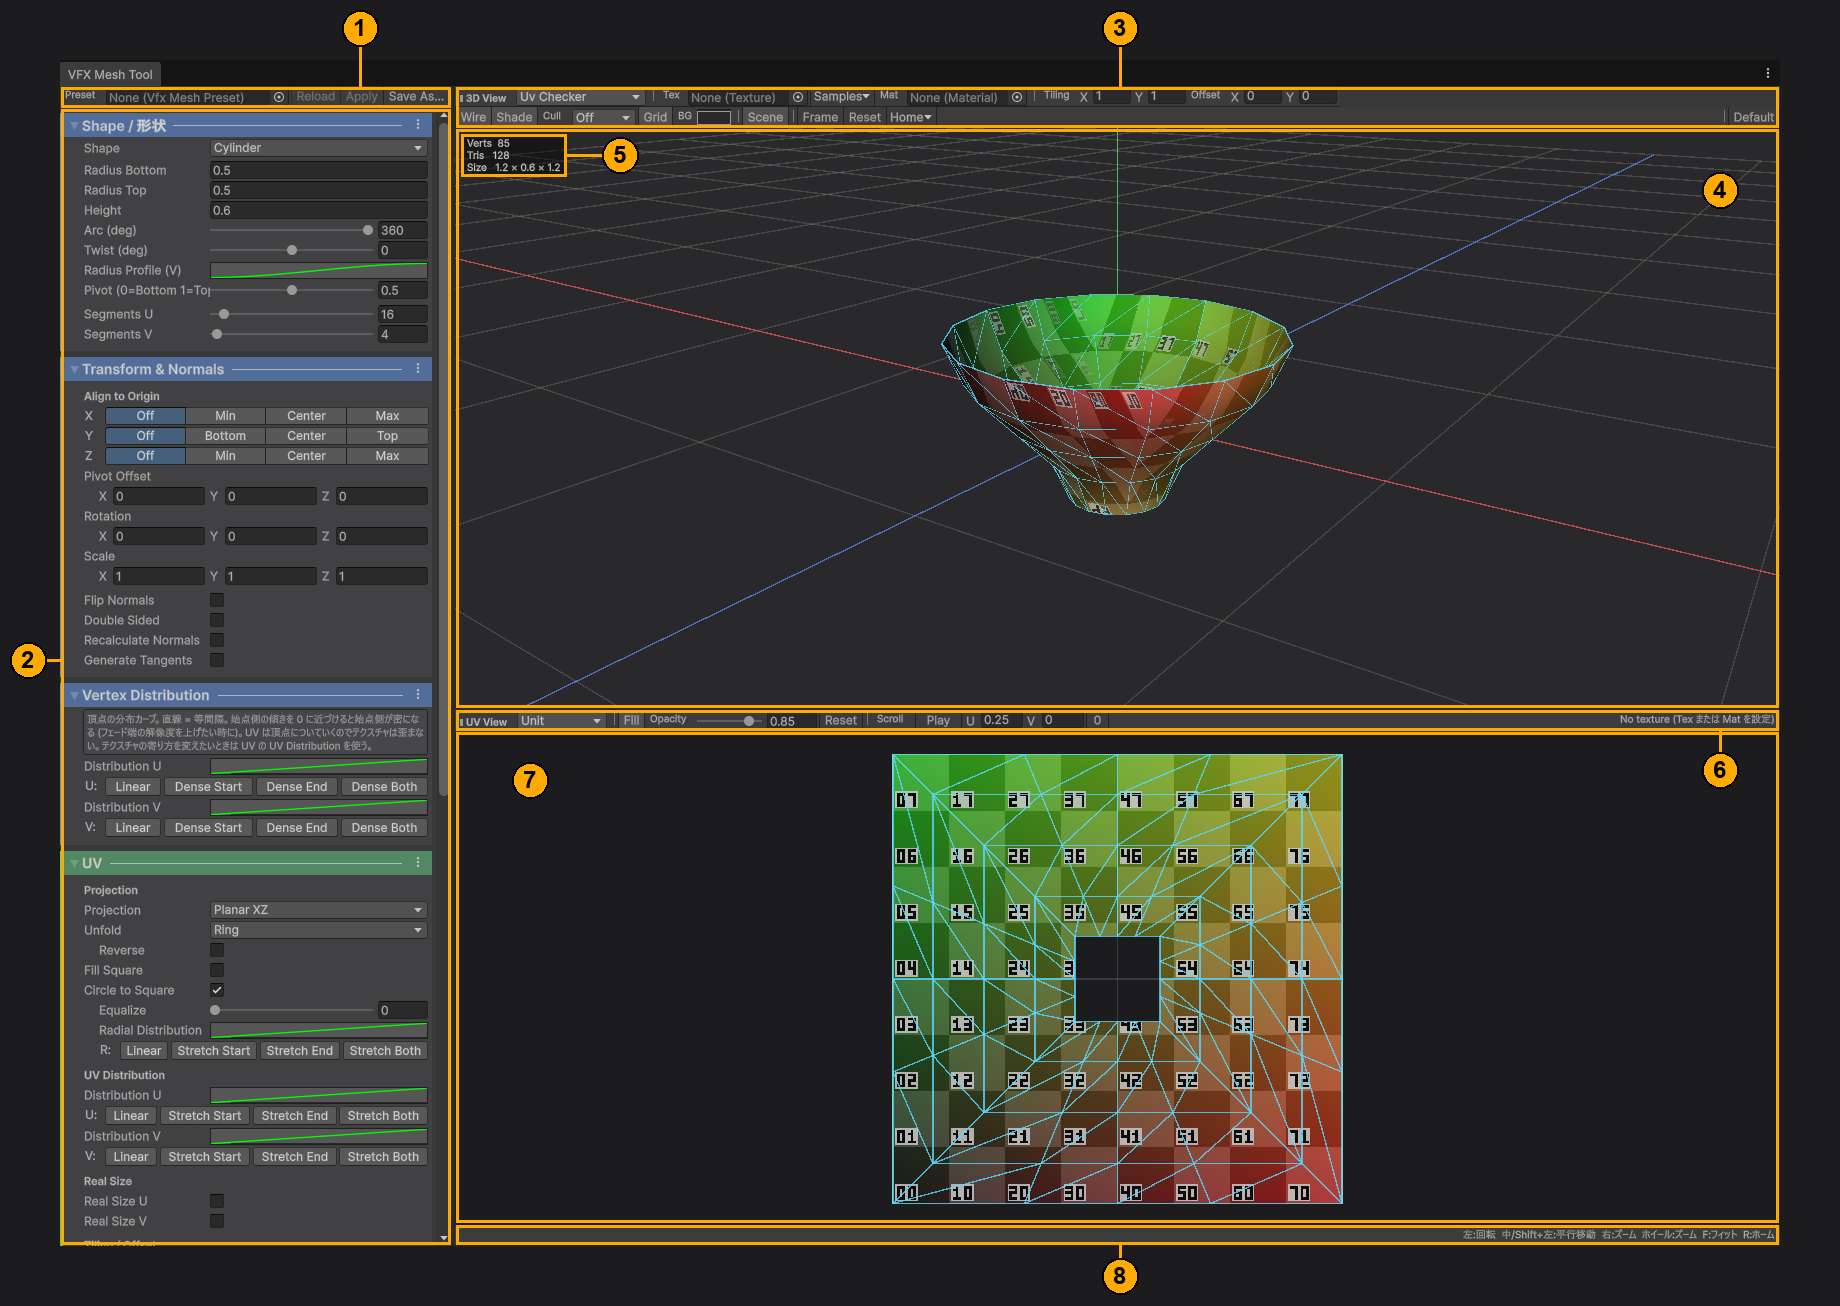
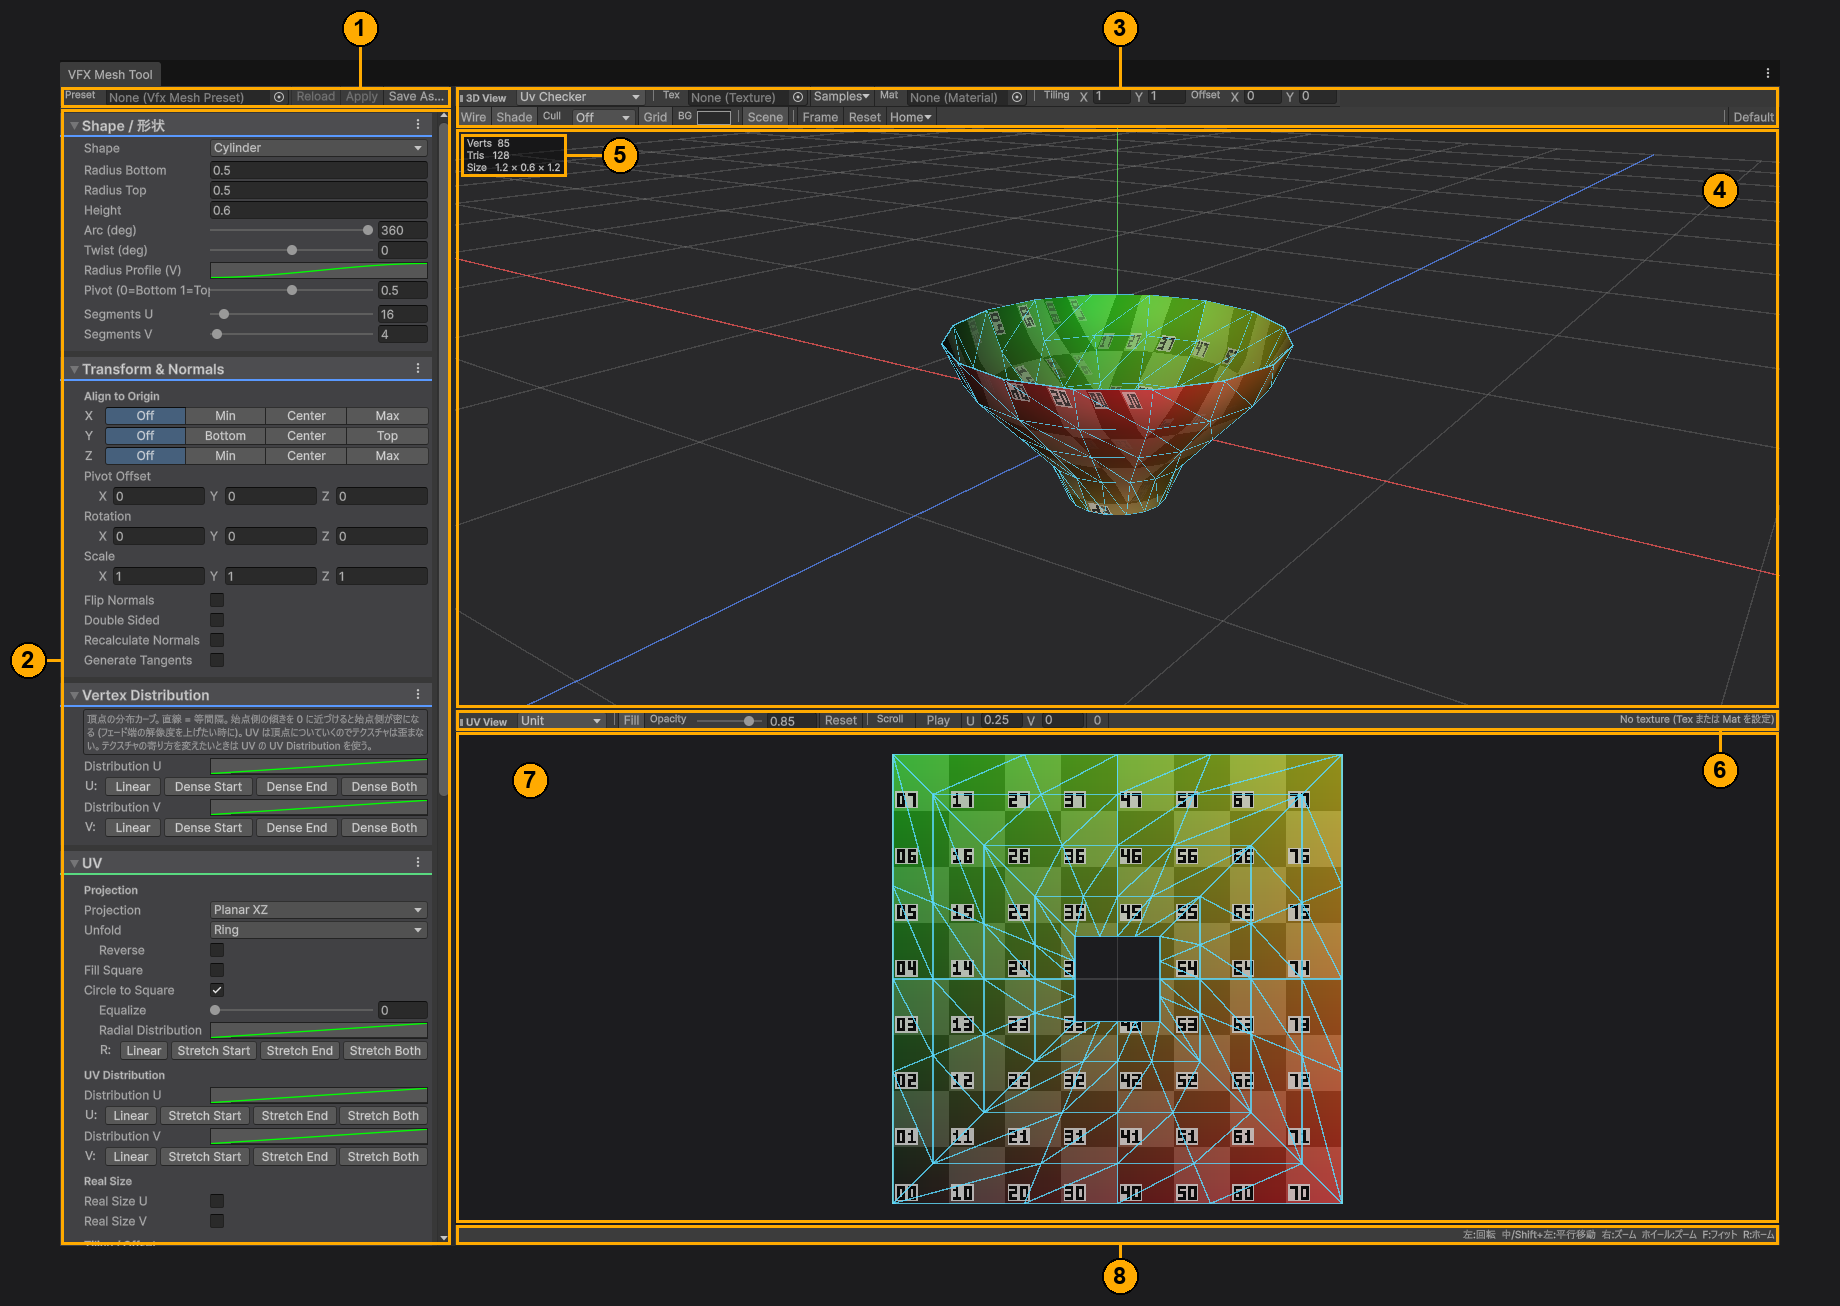
Section headers: colour only as an underline, no left lines
The section colour now appears only as a 2 px line along the bottom of
each header (darker in the light skin so green and orange stay visible).
The coloured header band, its 4 px left strip, the line across the title
and the colour line down the left of each card are gone; headers keep a
plain background one step lighter than the window. README text and UI
screenshots updated.

diff --git a/Editor/VfxMeshToolWindow.cs b/Editor/VfxMeshToolWindow.cs
@@ -432,6 +432,7 @@ namespace VfxMeshTool.EditorUI
         private static readonly Color PreviewColor = new Color(0.6f, 0.6f, 0.6f);
 
         private const float SectionHeaderHeight = 24f;
+        private const float SectionUnderline = 2f;
         private static GUIStyle _sectionHeaderStyle;
 
         /// <summary>
@@ -457,8 +458,8 @@ namespace VfxMeshTool.EditorUI
         }
 
         // ---- section cards ----
-        // セクションを 1 枚のカードとして見せる: 見出しは種類の色を重ねた帯 + 大きめの太字、中身はウィンドウより一段明るい
-        // 背景 (入力欄が沈まないように)、左端に種類の色のライン。カードの間は少し空ける。
+        // セクションを 1 枚のカードとして見せる: 見出しは大きめの太字と、下端の種類の色の線 (色はこの線だけ)、
+        // 中身はウィンドウより一段明るい背景 (入力欄が沈まないように)。カードの間は少し空ける。
 
         private static GUIStyle _cardStyle;
         private static Texture2D _cardTex;
@@ -500,7 +501,6 @@ namespace VfxMeshTool.EditorUI
             }
         }
 
-        private Color _sectionTag;
 
         /// <summary>
         /// セクション見出し (カードの上端)。EndSection で閉じる。
@@ -522,14 +522,17 @@ namespace VfxMeshTool.EditorUI
             Rect r = GUILayoutUtility.GetRect(1f, SectionHeaderHeight, GUILayout.ExpandWidth(true));
             if (Event.current.type == EventType.Repaint)
             {
-                Color band = tag;
-                band.a = EditorGUIUtility.isProSkin ? 0.42f : 0.5f;
+                // 見出しはウィンドウより一段明るい下地 + 下端にセクションの色の線。色はこの線だけに付ける
                 EditorGUI.DrawRect(r, HeaderBaseColor);
-                EditorGUI.DrawRect(r, band);
-                EditorGUI.DrawRect(new Rect(r.x, r.y, 4f, r.height), tag);
+                Color line = tag;
+                if (!EditorGUIUtility.isProSkin)
+                {
+                    // 明るい下地の上では緑・橙が薄く見えるので暗くする
+                    line = new Color(tag.r * 0.72f, tag.g * 0.72f, tag.b * 0.72f, 1f);
+                }
+                EditorGUI.DrawRect(new Rect(r.x, r.yMax - SectionUnderline, r.width, SectionUnderline), line);
             }
-            _sectionTag = tag;
-            // 見出しは自前で描く (Unity のフォールドアウト見出しは不透明な背景を描くので、下に敷いた帯が隠れる)
+            // 見出しは自前で描く (Unity のフォールドアウト見出しは不透明な背景を描くので、下地や線と合わない)
             var menuRect = new Rect(r.xMax - 22f, r.y + (r.height - 18f) * 0.5f, 18f, 18f);
             if (menu != null)
             {
@@ -545,19 +548,7 @@ namespace VfxMeshTool.EditorUI
                 }
             }
             var foldRect = new Rect(r.x + 8f, r.y + (r.height - 20f) * 0.5f, r.width - 8f - (menu != null ? 26f : 4f), 20f);
-            var titleContent = new GUIContent(title, tooltip);
-            if (Event.current.type == EventType.Repaint)
-            {
-                // 見出しの文字の右から ⋮ の手前まで横線を引き、セクションの始まりをはっきりさせる
-                float lineStart = foldRect.x + SectionHeaderStyle.CalcSize(titleContent).x + 8f;
-                float lineEnd = (menu != null ? menuRect.x : r.xMax) - 8f;
-                if (lineEnd - lineStart > 8f)
-                {
-                    Color line = EditorGUIUtility.isProSkin ? new Color(1f, 1f, 1f, 0.5f) : new Color(0f, 0f, 0f, 0.35f);
-                    EditorGUI.DrawRect(new Rect(lineStart, Mathf.Round(r.center.y), lineEnd - lineStart, 1f), line);
-                }
-            }
-            fold = EditorGUI.Foldout(foldRect, fold, titleContent, true, SectionHeaderStyle);
+            fold = EditorGUI.Foldout(foldRect, fold, new GUIContent(title, tooltip), true, SectionHeaderStyle);
             if (fold)
             {
                 EditorGUILayout.BeginVertical(CardStyle);
@@ -565,19 +556,12 @@ namespace VfxMeshTool.EditorUI
             return fold;
         }
 
-        /// <summary>BeginSection と対になる。開いているときはカードを閉じ、左端に種類の色のラインを引く。</summary>
+        /// <summary>BeginSection と対になる。開いているときはカードを閉じる。</summary>
         private void EndSection(bool fold)
         {
             if (fold)
             {
                 EditorGUILayout.EndVertical();
-                if (Event.current.type == EventType.Repaint)
-                {
-                    Rect card = GUILayoutUtility.GetLastRect();
-                    Color c = _sectionTag;
-                    c.a = 0.9f;
-                    EditorGUI.DrawRect(new Rect(card.x, card.y, 3f, card.height), c);
-                }
             }
         }
 

diff --git a/CHANGELOG.md b/CHANGELOG.md
@@ -18,7 +18,7 @@ All notable changes to this package are documented here. The format follows [Kee
 - Tiling / Offset of the preview texture in the 3D view toolbar. Adds to Scroll and is reset by Default; the mesh UVs and the Mat asset do not change (UserMaterial mode uses a copy of Mat).
 
 ### Changed
-- Each section of the settings panel is a card: a header band in the section colour with a larger bold title and a line across it, a background for its contents (one step lighter than the window in the dark skin, so the input fields stay visible) and a line in the section colour down its left edge. Sub-headings no longer draw lines, and separators split the groups of the 3D / UV view toolbars. Works in both the dark and light editor skins.
+- Each section of the settings panel is a card: a header with a larger bold title and a line in the section colour along its bottom edge (the only place the section colour appears; darker in the light skin), and a background for its contents (one step lighter than the window in the dark skin, so the input fields stay visible). Sub-headings no longer draw lines, and separators split the groups of the 3D / UV view toolbars. Works in both the dark and light editor skins.
 - README screenshots (window layout, settings panel) retaken with the new UI.
 - Scroll now also moves the textures of Mat in UserMaterial mode (through a copy; the asset is not changed).
 

diff --git a/README.ja.md b/README.ja.md
@@ -43,7 +43,7 @@
 
 ### メッシュ設定パネル (②) のセクション
 
-セクションは 1 枚ずつのカードになっている。見出しの帯 (とカード左端の線) の色が、そのセクションが変えるものを表す。
+セクションは 1 枚ずつのカードになっている。見出しの下線の色が、そのセクションが変えるものを表す。
 
 | 色 | セクション | 内容 |
 | --- | --- | --- |

diff --git a/README.md b/README.md
@@ -43,7 +43,7 @@ Requires Unity 2021.3 or later, Built-in or URP.
 
 ### Sections of the mesh settings panel (2)
 
-Each section is a card. The colour of its header band (and of the line down its left edge) shows what the section changes.
+Each section is a card. The colour of the line under its header shows what the section changes.
 
 | Colour | Section | Contents |
 | --- | --- | --- |
